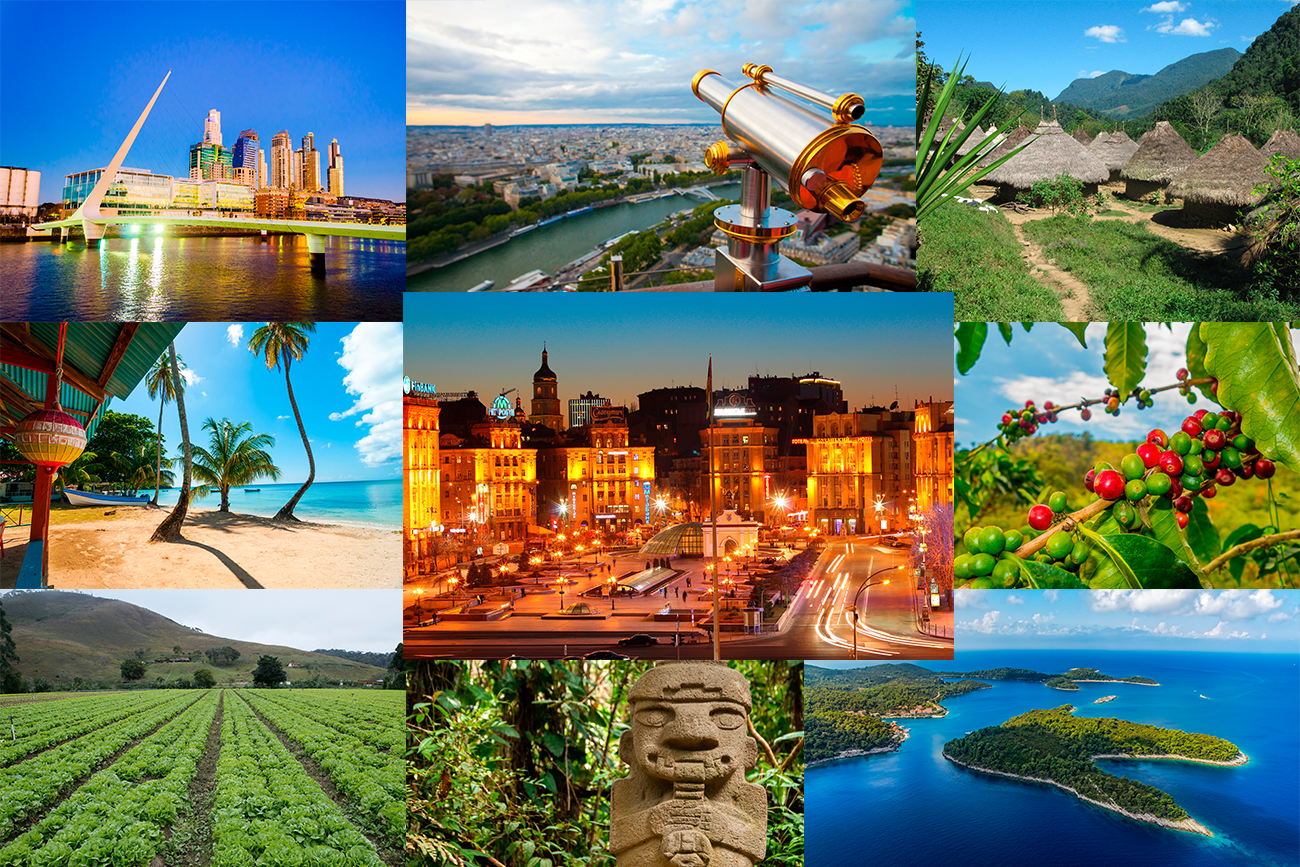
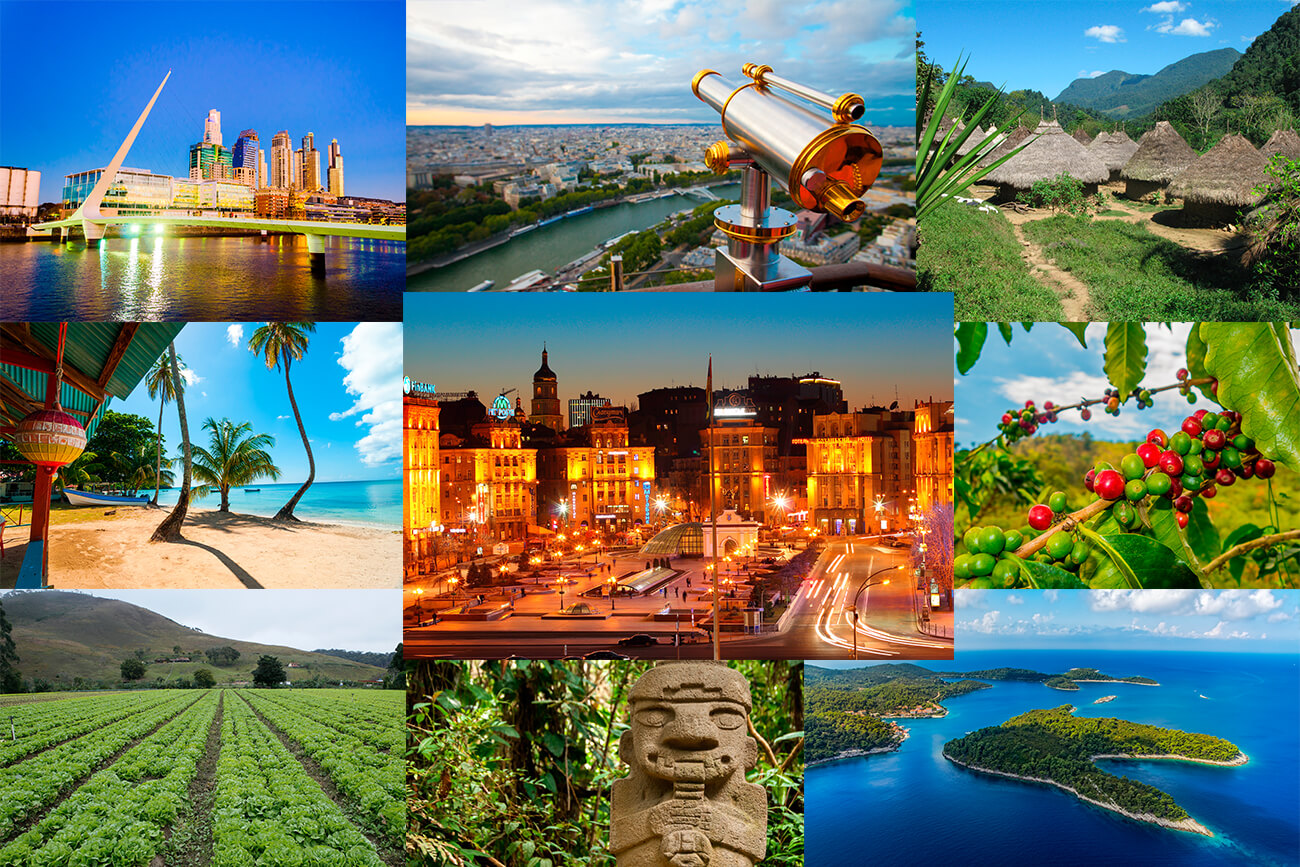
FlorRomero

diff --git a/index.html b/index.html
@@ -37,7 +37,7 @@
             traditions makes Colombia a uniquely varied destination</p>
     </aside>
     <footer>
-        <p>®2025 🌴 Flor Romero 🌴 Santander, Colombia</p>
+        <p>®2025, Flor Romero, Santander - Colombia</p>
     </footer>
 </body>
 
